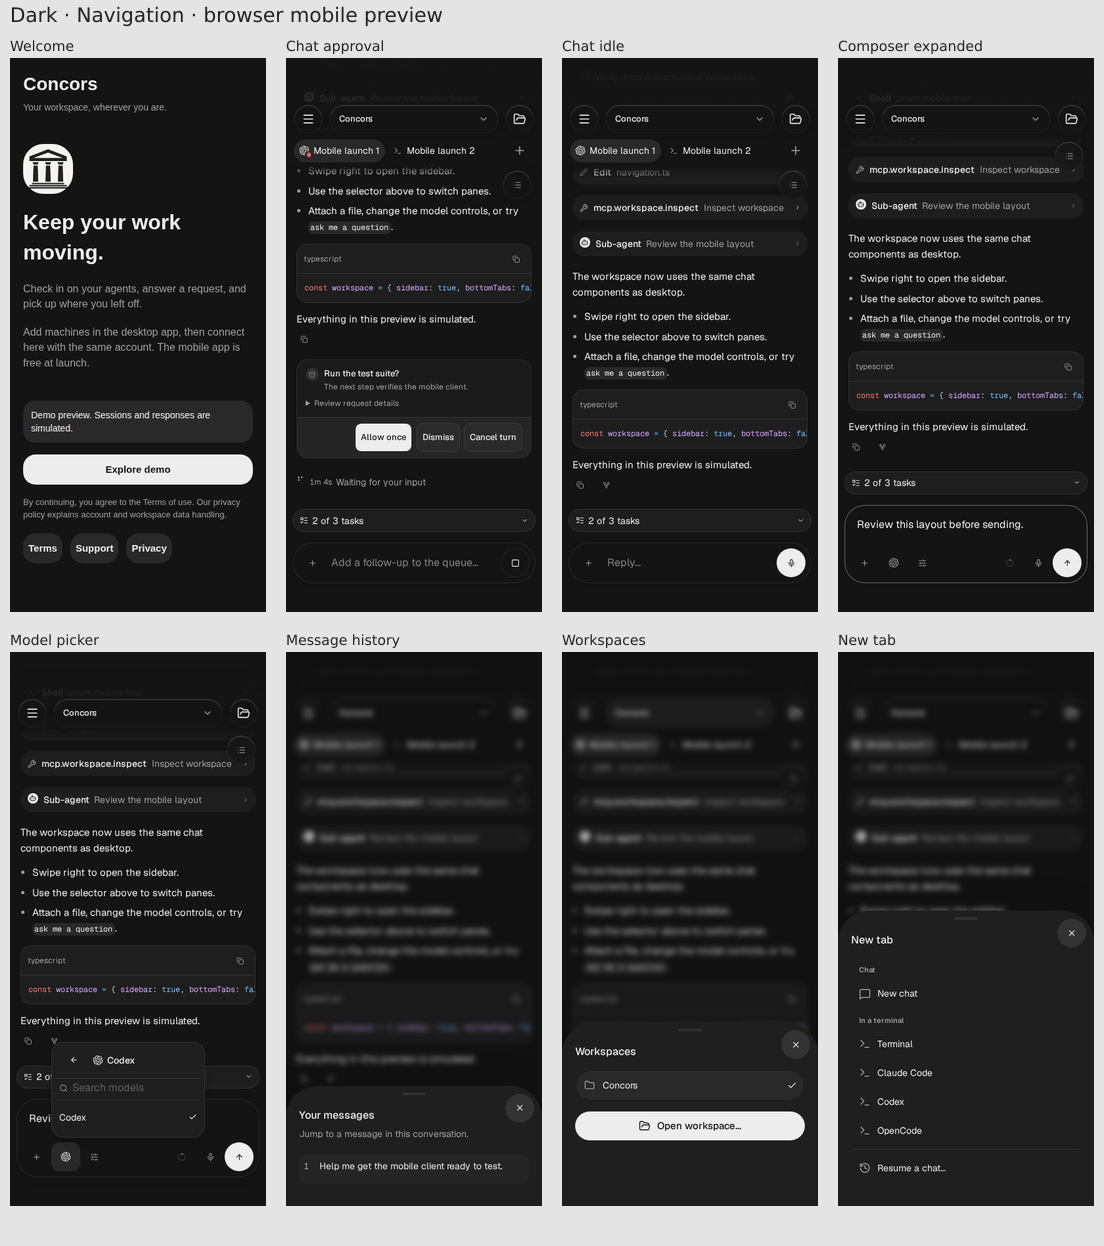
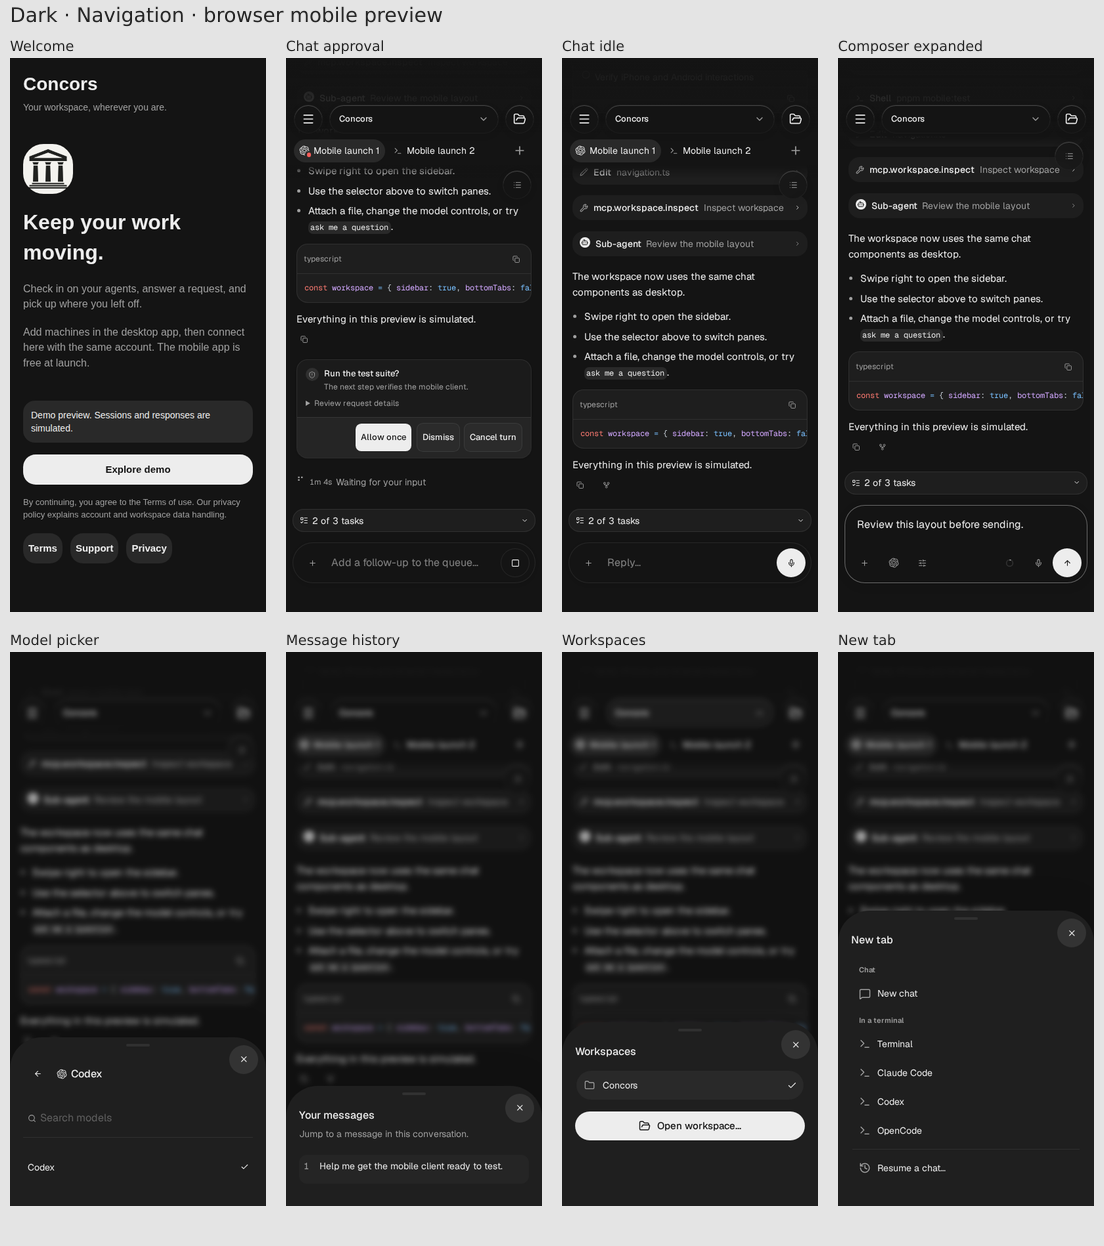
Refresh the mobile model drawer screenshots and audit notes

diff --git a/docs/mobile-polish-audit.md b/docs/mobile-polish-audit.md
@@ -32,6 +32,11 @@ is added. Measure cold launch and PDF scrolling on the shipping iPhone before re
 The settings review also found that an older daemon could leave Subscriptions showing
 “Connecting…” indefinitely. It now explains that the machine needs a Concors service update.
 
+The model selector now uses the shared bottom drawer in the compact composer, including model
+search, provider navigation, and pull-down dismissal. It opens with focus on the list so the
+software keyboard stays closed until search is tapped. Selection and dismissal return focus to
+the trigger and preserve the draft. The iOS native composer already uses the system bottom sheet.
+
 Native control geometry now also publishes when a panel transition ends or is cancelled. A busy
 frame can exceed the normal tracking window; the final update prevents a glass button from staying
 partly visible after its panel closes.

diff --git a/docs/mobile-polish/README.md b/docs/mobile-polish/README.md
@@ -2,6 +2,8 @@
 
 32 surfaces in light and dark at 390×844, with iPhone-style safe areas. These are browser captures of the shared UI. Native SwiftUI glass, OS pickers, permissions and the software keyboard require device verification. The demo is simulated; the two PDF images below come from live-daemon acceptance.
 
+The model-picker captures show the shared bottom drawer used by the compact composer, with search and provider navigation.
+
 - Navigation: [light](light-navigation-overview.png) · [dark](dark-navigation-overview.png)
 - Workspace: [light](light-workspace-overview.png) · [dark](dark-workspace-overview.png)
 - Settings: [light](light-settings-overview.png) · [dark](dark-settings-overview.png)
